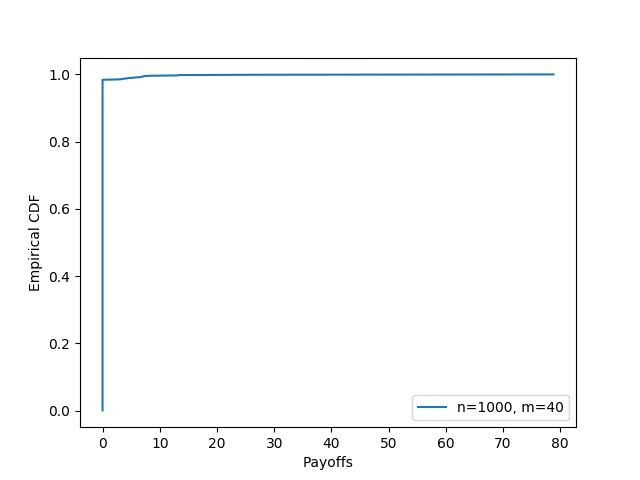
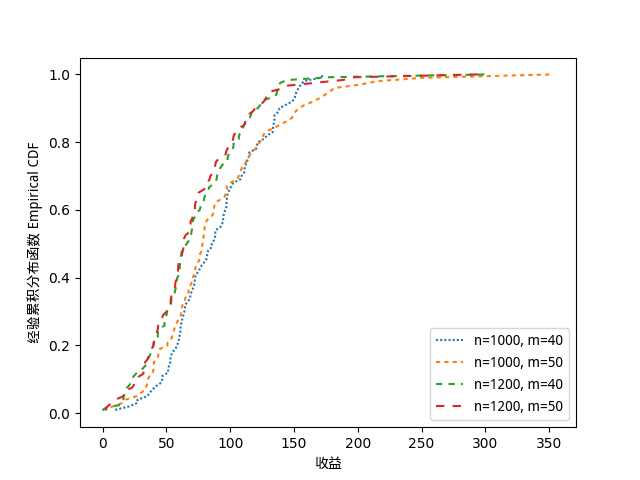
change to chinese.

diff --git a/range_mu.py b/range_mu.py
@@ -4,6 +4,8 @@ import algorithm
 import matplotlib.pyplot as plt
 import time
 import numpy as np
+import matplotlib
+from matplotlib.font_manager import FontProperties
 logging.basicConfig(filename='log.log', level=logging.INFO)
 
 
@@ -16,7 +18,7 @@ def range_mu(op):
         # print('in n = ' + str(n))
         y_sum = 0
         z_sum = 0
-        loop = 20
+        loop = 50
         for i in range(0, loop):
             # print('in loop ' + str(i))
             tasks = generator.generate_tasks(m)
@@ -54,9 +56,12 @@ if __name__ == '__main__':
     m = 40
     r = 3
 
+    myfont = FontProperties(
+        fname='/usr/share/fonts/truetype/wqy/wqy-microhei.ttc')
+    # 解决负号'-'显示为方块的问题
+    matplotlib.rcParams['axes.unicode_minus'] = False
+
     plt.figure(1)
-    plt.ylabel('Overpayment ratio $\lambda$')
-    plt.xlabel('Number of smartphones $n$')
     x, y0, z0 = range_mu(0)
     x, y1, z1 = range_mu(1)
     x, y2, z2 = range_mu(2)
@@ -68,21 +73,21 @@ if __name__ == '__main__':
 
     rects1 = plt.bar(index, y0, bar_width,
                      alpha=opacity,
-                     label='UNM')
+                     label=u'均匀分布')
 
     rects2 = plt.bar(index + bar_width, y1, bar_width,
                      alpha=opacity,
-                     label='NORM')
+                     label=u'正态分布')
 
     rects3 = plt.bar(index + 2 * bar_width, y2, bar_width,
                      alpha=opacity,
-                     label='EXP')
+                     label=u'指数分布')
 
-    plt.xlabel('Average of real cost')
-    plt.ylabel('Overpayment ratio $\lambda$')
+    plt.xlabel(u'真实成本的平均数', fontproperties=myfont)
+    plt.ylabel(u'超额偿付率 $\lambda$', fontproperties=myfont)
     # plt.title('Scores by person')
     plt.xticks(index + bar_width, ('15', '20', '25'))
-    plt.legend()
+    plt.legend(prop=myfont)
 
     plt.tight_layout()
     plt.savefig('Overpayment ratio vs. Cost range R.png')
@@ -92,21 +97,21 @@ if __name__ == '__main__':
     plt.figure(2)
     plt.bar(index, z0, bar_width,
                      alpha=opacity,
-                     label='UNM')
+                     label=u'均匀分布')
 
     plt.bar(index + bar_width, z1, bar_width,
                      alpha=opacity,
-                     label='NORM')
+                     label=u'正态分布')
 
     plt.bar(index + 2 * bar_width, z2, bar_width,
                      alpha=opacity,
-                     label='EXP')
+                     label=u'指数分布')
 
-    plt.xlabel('Average of real cost')
-    plt.ylabel('Social cost $\omega$')
+    plt.xlabel(u'真实成本的平均数', fontproperties=myfont)
+    plt.ylabel(u'社会成本 $\omega$', fontproperties=myfont)
     # plt.title('Scores by person')
     plt.xticks(index + bar_width, ('15', '20', '25'))
-    plt.legend()
+    plt.legend(prop=myfont)
 
     plt.tight_layout()
     plt.savefig('Social cost vs. Cost range R.png')

diff --git a/payoffs_cdf.py b/payoffs_cdf.py
@@ -2,6 +2,9 @@ import logging
 import generator
 import algorithm
 import matplotlib.pyplot as plt
+import matplotlib
+from matplotlib.font_manager import FontProperties
+
 logging.basicConfig(filename='log.log', level=logging.INFO)
 
 
@@ -11,12 +14,12 @@ def cdf(op, n, m):
     y = []
     z = []
     p_list = []
-    for i in range(0, n):
+    for i in range(0, n // 10):
         p_list.append(0)
 
     y_sum = 0
     z_sum = 0
-    loop = 1
+    loop = 20
     for i in range(0, loop):
         tasks = generator.generate_tasks(m)
         bids = generator.generate_bids(op, tasks, n)
@@ -54,21 +57,64 @@ if __name__ == '__main__':
     m = 40
     r = 3
 
+    myfont = FontProperties(fname='/usr/share/fonts/truetype/wqy/wqy-microhei.ttc')
+    # 解决负号'-'显示为方块的问题
+    matplotlib.rcParams['axes.unicode_minus'] = False
     # fig, ax = plt.subplots()
+
+    # n = 1000, m = 40
     plt.figure(1)
-    plt.ylabel('Empirical CDF')
-    plt.xlabel('Payoffs')
+    plt.ylabel(u'经验累积分布函数 Empirical CDF', fontproperties=myfont)
+    plt.xlabel(u'收益', fontproperties=myfont)
     n = 1000
     m = 40
     x = []
     y = []
     p_list = cdf(0, n, m)
+    n //= 10
     for i in range(0, n):
         x.append(p_list[i])
         y.append((i + 1) / n)
 
-    plt.plot(x, y, label='n=1000, m=40')
-    plt.legend(loc='best')
+    plt.plot(x, y, linestyle='--', dashes=(1, 1), label='n=1000, m=40')
+
+    n = 1000
+    m = 50
+    x = []
+    y = []
+    p_list = cdf(0, n, m)
+    n //= 10
+    for i in range(0, n):
+        x.append(p_list[i])
+        y.append((i + 1) / n)
+
+    plt.plot(x, y, linestyle='--', dashes=(2, 2), label='n=1000, m=50')
+
+    n = 1200
+    m = 40
+    x = []
+    y = []
+    p_list = cdf(0, n, m)
+    n //= 10
+    for i in range(0, n):
+        x.append(p_list[i])
+        y.append((i + 1) / n)
+
+    plt.plot(x, y, linestyle='--', dashes=(3, 3), label='n=1200, m=40')
+
+    n = 1200
+    m = 50
+    x = []
+    y = []
+    p_list = cdf(0, n, m)
+    n //= 10
+    for i in range(0, n):
+        x.append(p_list[i])
+        y.append((i + 1) / n)
+
+    plt.plot(x, y, linestyle='--', dashes=(4, 4), label='n=1200, m=50')
+
+    plt.legend(loc='best', prop=myfont)
     plt.savefig('Empirical CDF vs. Payoffs.png')
     plt.show()
 

diff --git a/range_n.py b/range_n.py
@@ -2,6 +2,8 @@ import logging
 import generator
 import algorithm
 import matplotlib.pyplot as plt
+import matplotlib
+from matplotlib.font_manager import FontProperties
 import time
 logging.basicConfig(filename='log.log', level=logging.INFO)
 
@@ -52,33 +54,38 @@ if __name__ == '__main__':
     n = 500
     m = 40
     r = 3
+    myfont = FontProperties(
+        fname='/usr/share/fonts/truetype/wqy/wqy-microhei.ttc')
+    # 解决负号'-'显示为方块的问题
+    matplotlib.rcParams['axes.unicode_minus'] = False
+
     plt.figure(1)
     zz = []
-    plt.ylabel('Overpayment ratio $\lambda$')
-    plt.xlabel('Number of smartphones $n$')
+    plt.ylabel(u'超额偿付率 $\lambda$', fontproperties=myfont)
+    plt.xlabel(u'智能手机用户数量 $n$', fontproperties=myfont)
     x, y, z = range_n(0)
     zz.append(z)
-    plt.plot(x, y, "-^", mfc='none', label='UNM')
+    plt.plot(x, y, "-^", mfc='none', label=u'均匀分布')
 
     x, y, z = range_n(1)
     zz.append(z)
-    plt.plot(x, y, "-o", mfc='none', label='NORM')
+    plt.plot(x, y, "-o", mfc='none', label=u'正态分布')
 
     x, y, z = range_n(2)
     zz.append(z)
-    plt.plot(x, y, "-s", mfc='none', label='EXP')
+    plt.plot(x, y, "-s", mfc='none', label=u'指数分布')
 
-    plt.legend(loc='best')
+    plt.legend(loc='best', prop=myfont)
     plt.savefig('Overpayment ratio vs. Number of smartphones.png')
     plt.show()
 
     plt.figure(2)
-    plt.ylabel('Social cost $\omega$')
-    plt.xlabel('Number of smartphones $n$')
-    plt.plot(x, zz[0], "-^", mfc='none', label='UNM')
-    plt.plot(x, zz[1], "-o", mfc='none', label='NORM')
-    plt.plot(x, zz[2], "-s", mfc='none', label='EXP')
-    plt.legend(loc='best')
+    plt.ylabel(u'社会成本 $\omega$', fontproperties=myfont)
+    plt.xlabel(u'智能手机用户数量 $n$', fontproperties=myfont)
+    plt.plot(x, zz[0], "-^", mfc='none', label=u'均匀分布')
+    plt.plot(x, zz[1], "-o", mfc='none', label=u'正态分布')
+    plt.plot(x, zz[2], "-s", mfc='none', label=u'指数分布')
+    plt.legend(loc='best', prop=myfont)
     plt.savefig('Social cost vs. Number of smartphones.png')
     plt.show()
 

diff --git a/range_m.py b/range_m.py
@@ -2,7 +2,8 @@ import logging
 import generator
 import algorithm
 import matplotlib.pyplot as plt
-
+import matplotlib
+from matplotlib.font_manager import FontProperties
 
 def range_m(op):
     x = []
@@ -46,33 +47,38 @@ if __name__ == '__main__':
     n = 500
     m = 40
     r = 3
+    myfont = FontProperties(
+        fname='/usr/share/fonts/truetype/wqy/wqy-microhei.ttc')
+    # 解决负号'-'显示为方块的问题
+    matplotlib.rcParams['axes.unicode_minus'] = False
+
     plt.figure(1)
     zz = []
-    plt.ylabel('Overpayment ratio $\lambda$')
-    plt.xlabel('Number of sensing tasks $m$')
+    plt.ylabel(u'超额偿付率 $\lambda$', fontproperties=myfont)
+    plt.xlabel(u'传感任务数量 $m$', fontproperties=myfont)
     x, y, z = range_m(0)
     zz.append(z)
-    plt.plot(x, y, "-^", mfc='none', label='UNM')
+    plt.plot(x, y, "-^", mfc='none', label=u'均匀分布')
 
     x, y, z = range_m(1)
     zz.append(z)
-    plt.plot(x, y, "-o", mfc='none', label='NORM')
+    plt.plot(x, y, "-o", mfc='none', label=u'正态分布')
 
     x, y, z = range_m(2)
     zz.append(z)
-    plt.plot(x, y, "-s", mfc='none', label='EXP')
+    plt.plot(x, y, "-s", mfc='none', label=u'指数分布')
 
-    plt.legend(loc='best')
+    plt.legend(loc='best', prop=myfont)
     plt.savefig('Overpayment ratio vs. Number of sensing tasks.png')
     plt.show()
 
     plt.figure(2)
-    plt.ylabel('Social cost $\omega$')
-    plt.xlabel('Number of sensing tasks $m$')
-    plt.plot(x, zz[0], "-^", mfc='none', label='UNM')
-    plt.plot(x, zz[1], "-o", mfc='none', label='NORM')
-    plt.plot(x, zz[2], "-s", mfc='none', label='EXP')
-    plt.legend(loc='best')
+    plt.ylabel(u'社会成本 $\omega$', fontproperties=myfont)
+    plt.xlabel(u'传感任务数量 $m$', fontproperties=myfont)
+    plt.plot(x, zz[0], "-^", mfc='none', label=u'均匀分布')
+    plt.plot(x, zz[1], "-o", mfc='none', label=u'正态分布')
+    plt.plot(x, zz[2], "-s", mfc='none', label=u'指数分布')
+    plt.legend(loc='best', prop=myfont)
     plt.savefig('Social cost vs. Number of Number of sensing tasks.png')
     plt.show()
 

diff --git a/benchmark.py b/benchmark.py
@@ -1,9 +1,14 @@
 import logging
-import generator
-import algorithm
-import matplotlib.pyplot as plt
 import time
+
+import matplotlib
+import matplotlib.pyplot as plt
 import numpy as np
+from matplotlib.font_manager import FontProperties
+
+import algorithm
+import generator
+
 logging.basicConfig(filename='log.log', level=logging.INFO)
 
 
@@ -74,6 +79,11 @@ if __name__ == '__main__':
     means_frank = (90, 55, 40, 65)
     means_guido = (85, 62, 54, 20)
 
+    myfont = FontProperties(
+        fname='/usr/share/fonts/truetype/wqy/wqy-microhei.ttc')
+    # 解决负号'-'显示为方块的问题
+    matplotlib.rcParams['axes.unicode_minus'] = False
+
     # create plot
     fig, ax = plt.subplots()
     ax.set_yscale('log')
@@ -84,21 +94,20 @@ if __name__ == '__main__':
     rects1 = plt.bar(index, y1, bar_width,
                      alpha=opacity,
                      color='b',
-                     label='TRAC')
+                     label=u'实验')
 
     rects2 = plt.bar(index + bar_width, y2, bar_width,
                      alpha=opacity,
                      color='g',
-                     label='OPT')
+                     label=u'对照')
 
-    plt.xlabel('Different settings with n, m')
-    plt.ylabel('Running time (ms)')
+    plt.xlabel(u'对于 n, m 不同的设置', fontproperties=myfont)
+    plt.ylabel(u'运行时间 (毫秒)', fontproperties=myfont)
     # plt.title('Scores by person')
-    plt.xticks(index + bar_width / 2, ('{100,8}', '{100,9}', '{110,8}', '{110,9}', '120,8', '120,9'))
-    plt.legend()
+    plt.xticks(index + bar_width / 2,
+               ('{100,8}', '{100,9}', '{110,8}', '{110,9}', '120,8', '120,9'))
+    plt.legend(prop=myfont)
 
     plt.tight_layout()
     plt.savefig('Evaluation of computation efficiency.png')
     plt.show()
-
-

diff --git a/generator.py b/generator.py
@@ -50,12 +50,12 @@ def generate_bids(op, tasks, n):
     m = len(tasks)
     bids = []
     task2user = []
-    n //= 10
+    # n //= 10
     for i in range(0, n):
         task2user.append([])
     # iterate tasks, a task assign to at least two users.
     for i in range(0, m):
-        num = random.randrange(2, 10)
+        num = random.randrange(2, max(10, n // m))
         s = random.sample(range(0, n), num)
         # add the task to selected users.
         for j in s:
